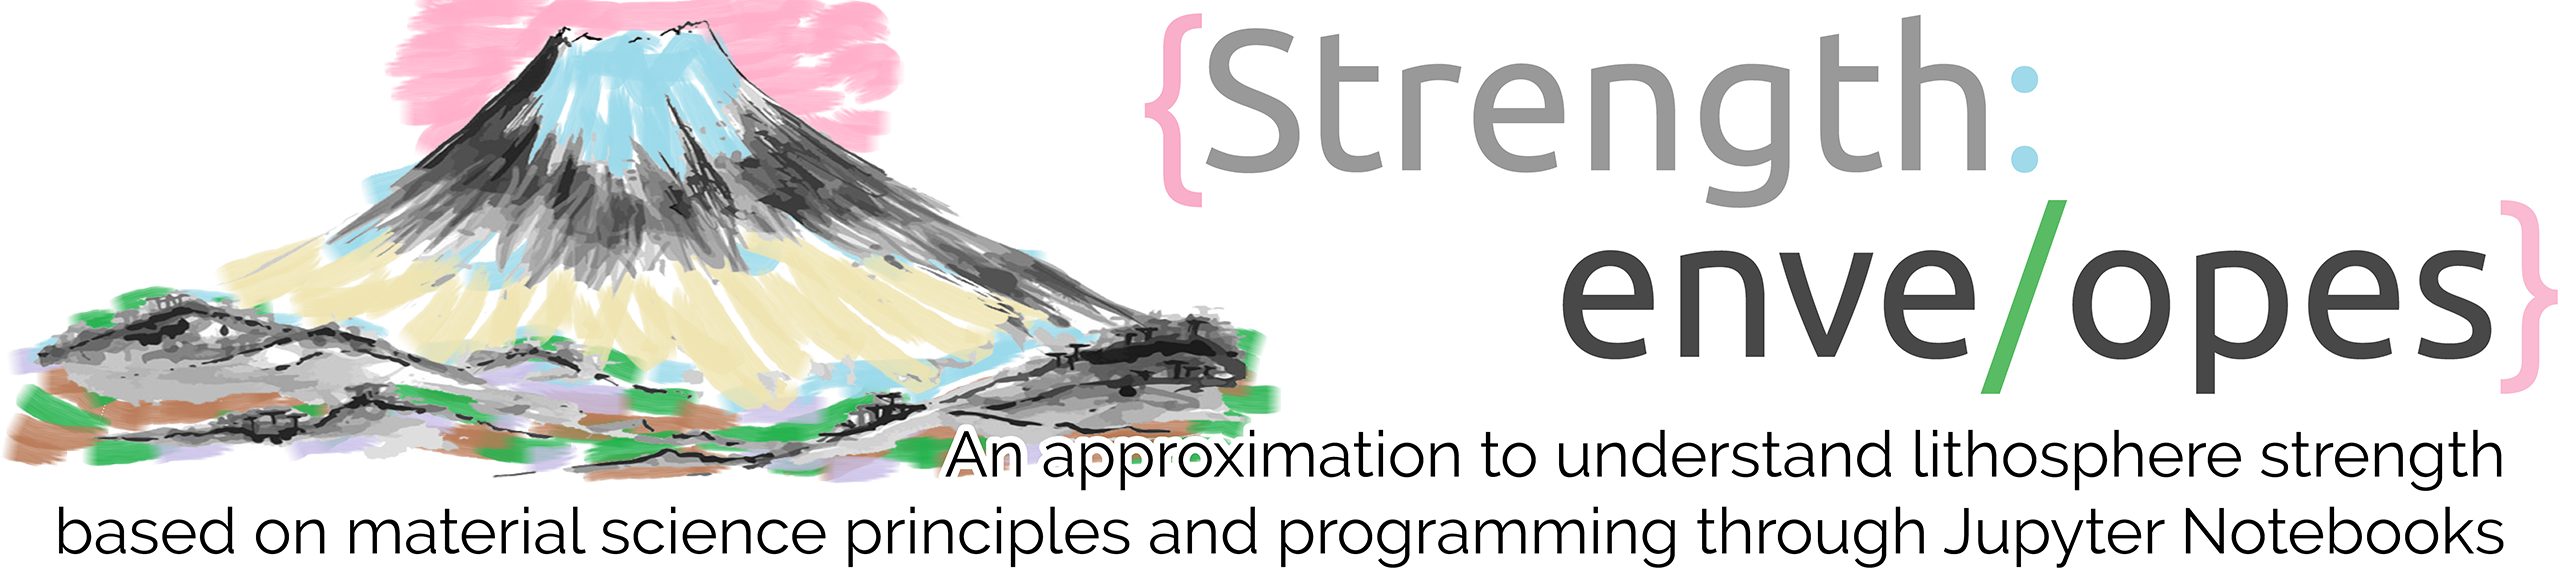
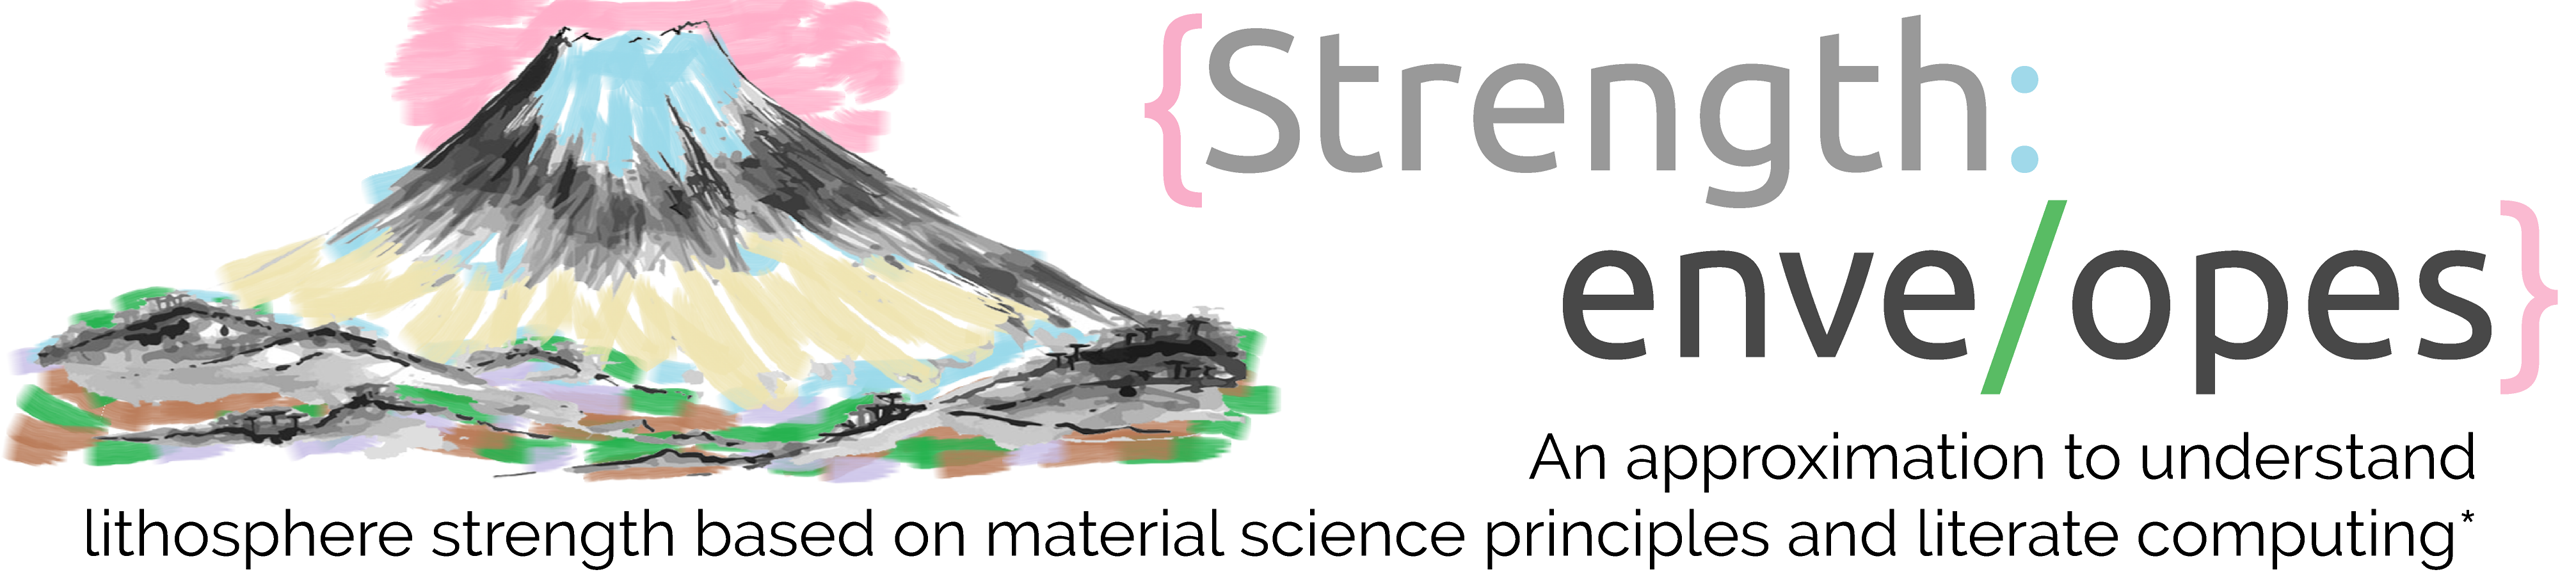
update

Changed region(s): [[0.0, 0.8916, 0.9688, 1.0], [0.3438, 0.743, 1.0, 0.8619], [0.9062, 0.5944, 0.9375, 0.6241]]

diff --git a/README.md b/README.md
@@ -2,7 +2,7 @@
 
 _This project is maintained by [Marco A. Lopez-Sanchez](https://marcoalopez.github.io/)_ - Last update: 2020/11/03
 
-**Strength envelopes** is a pet project consisting of a series of free open-source multi-platform [Jupyter notebooks](https://jupyter.org/) aimed at building strength envelopes for the earth lithosphere. The notebooks are primarily intended for educational purposes (especially for hands-on courses) but are easily adaptable for more advanced modelling. The programming language used within the notebooks is [Python](https://www.python.org/) but does **not require previous knowledge of Python for its use**. All the notebooks are intended to be self-explanatory with a smooth learning curve.
+**Strength envelopes** is a pet project consisting of a series of free open-source multi-platform [Jupyter notebooks](https://jupyter.org/) aimed at building strength envelopes for the earth lithosphere. The notebooks are primarily intended for educational purposes (especially for hands-on courses) but are easily adaptable for more advanced modelling. The programming language used within the notebooks is [Python](https://www.python.org/) but does **not require previous knowledge of Python for its use**. All the notebooks are intended to be self-explanatory with a smooth learning curve and fully based on [literate computing](https://osf.io/h9gsd/).
 
 > **Disclaimer**: The project is currently under development. As a pet project, I develop it in my spare time and without specific deadlines.  Anyway, I hope to have most of the notebooks completed by early 2021. Stay tuned.
 
